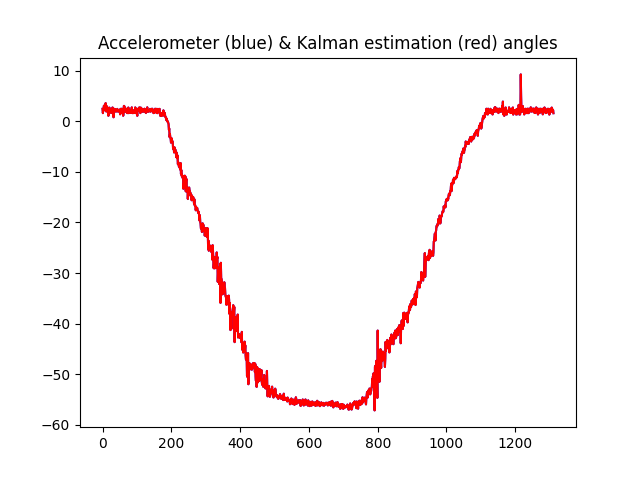
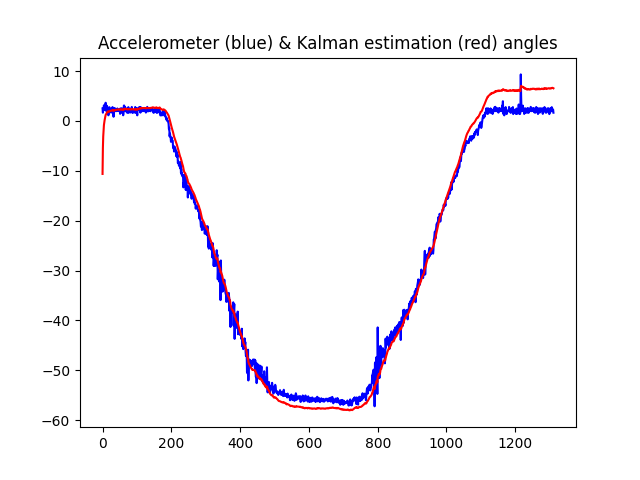
changed initial values

diff --git a/IDT_Fall2020_module_1/exercise_imu_kalman/3.4.1.py b/IDT_Fall2020_module_1/exercise_imu_kalman/3.4.1.py
@@ -29,11 +29,11 @@ bias_gyro_x = 0.0 # [rad/measurement]
 bias_gyro_y = 0.0 # [rad/measurement]
 bias_gyro_z = 0.0 # [rad/measurement]
 
-gyroVar = 1
-pitchVar = 1
+gyroVar = 1.4
+pitchVar = 1.2
 
-accVar = 0
-accAngle = 0
+accVar = 1.2
+accAngle =1.0
 
 # Kalman filter start guess
 estAngle = -pi/4.0
